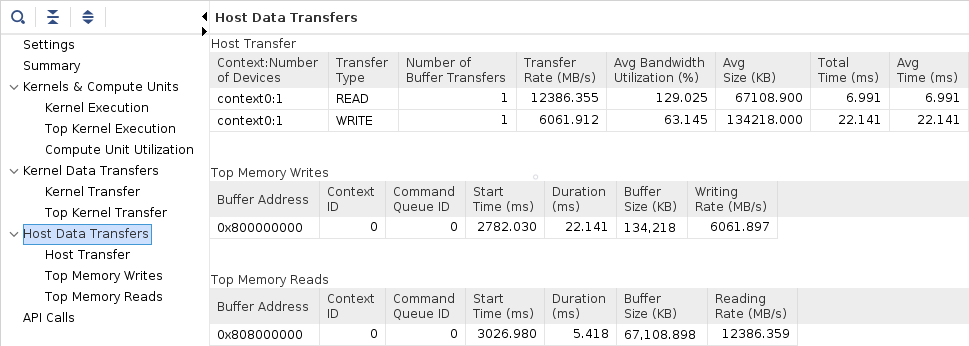
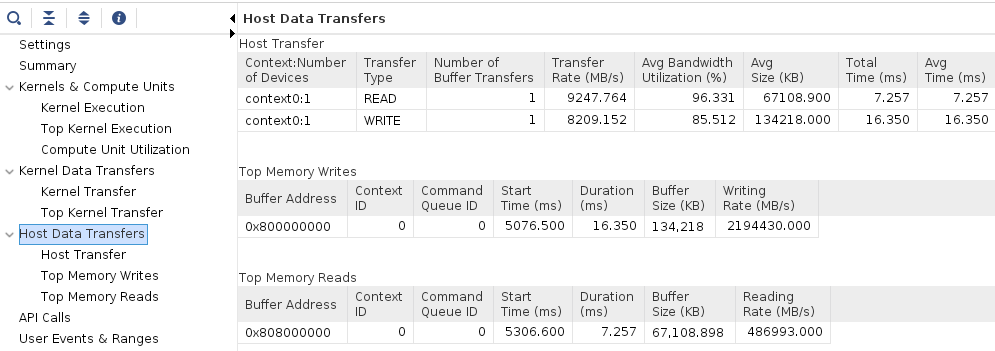
updated images, updated hardware section

diff --git a/docs/Vitis_intro-2.md b/docs/Vitis_intro-2.md
@@ -15,7 +15,7 @@ This lab is a continuation of previous *Introduction to Vitis* lab. You ended th
 
     ![](images/Vitis_intro/sw_emu_run_profile.png)
 
-1. Vitis Analyzer shows **Summary**, **Run Guidance** and **Profile Summary** tabs on the left-hand side. Notice that the Timeline Trace is not available as by default it is turned-off for the software emulation. Click **Profile Summary**
+1. Vitis Analyzer shows **Summary**, **Run Guidance** and **Profile Summary** tabs on the left-hand side. Notice that the **Timeline Trace** is not available as by default it is turned-off for the software emulation. Click **Profile Summary**
 
 1. Click **Kernels & Compute Units** on the right to see kernel and compute units execution times
 
@@ -65,7 +65,7 @@ This lab is a continuation of previous *Introduction to Vitis* lab. You ended th
 
     ![](images/Vitis_intro/hw_emu_krnl_profile_settings.png)
 
-1. Build the project. This may take about 10 minutes
+1. Build the project by selecting **vadd_system"" in `Assistant` view and clicking the build button. This may take about 10 minutes
 
 1. Run Hardware Emulation in GUI mode
 
@@ -100,7 +100,7 @@ This lab is a continuation of previous *Introduction to Vitis* lab. You ended th
 
     In the *Assistant* view, double-click `vadd_system > vadd > Emulation-HW > SystemDebugger_vadd_system_vadd > Run Summary (xclbin)` to open Vitis Analyzer
 
-    Vitis Analyzer shows **Summary**, **System Diagram**, **Platform Diagram**, **Run Guidance**, **Profile Summary**, and **Timeline Trace** tabs on the left-hand side. Click **Timeline Trace**. Zoom in between the 20 and 40 second area and observe the events that occurred. Note that data is processed in smaller chunks in the kernel and in a sequential manner. Only activities occurring in the FPGA is shown. No host activities are displayed.
+    Vitis Analyzer shows **Summary**, **System Diagram**, **Platform Diagram**, **Run Guidance**, **Profile Summary**, and **Timeline Trace** tabs on the left-hand side. Click **Timeline Trace**. Zoom in between the 20 and 40 second area and observe the events that occurred. Note that data is processed in smaller chunks in the kernel and in a sequential manner. Only activities occurring in the FPGA is shown. No host activities are displayed. 
 
     ![](images/Vitis_intro/hw_emu_application_timeline.png)
 
@@ -142,9 +142,7 @@ This lab is a continuation of previous *Introduction to Vitis* lab. You ended th
 
     ![](images/Vitis_intro/hw_emu_application_timeline_trace.png)
 
-## TO BE UPDATED ##
-
-### Build System hardware with profiling and timing analysis options
+### Build and run System hardware with profiling and timing analysis options if continuing with the lab OTHERWISE skip to [Prebuilt](#testing-with-prebuilt-hardware)
 
 1. Set `Active build configuration:` to `Hardware` on the upper right corner of *Application Project Settings* view
 
@@ -152,60 +150,53 @@ This lab is a continuation of previous *Introduction to Vitis* lab. You ended th
 
     In order to collect the profiling data and run Timing Analyzer on the application run in hardware, we need to setup some options.
 
-1. Right-click on Hardware in *Assistant* view and then click on *Settings*
+1. Select `vadd_system > vadd_system_hw_link > Hardware > binary_container_1` in *Assistant* view and then click on *Settings*. Click on the *Data Transfer* drop-down button in *binary\_container\_1* row and select **Counters+Trace** option. This should also enable *Execute Profiling* option. If not, then click on the corresponding check box.
 
-    ![](images/Vitis_intro/hw_settings_invoke.png)
+1. In the *V++ command line options:* field, enter `--profile.data all` to enable kernel profiling
 
-1. Expand Hardware in the left panel to see *binary_container_1* and *krnl_vadd* entries. Select *krnl_vadd* on the left-hand side, click on the *Data Transfer* drop-down button in krnl_vadd row and select *Counters+Trace* option. Notice the same monitoring options will be applied to all items in the hierarchy under the top level selection. Similarly, click on *Execute Profiling* check-box in krnl_vadd row.
+1. Select *Trace Memory* to be FIFO type and size of 64K. This is the memory where traces will be stored. You also have the option to store this information in DDR (max limit 4 GB) and PLRAM
 
     At this point the settings should look like shown below
 
     ![](images/Vitis_intro/hw_krnl_profile_settings.png)
 
-1. Click on *binary_container* on the left-hand side and select *Trace Memory* to be FIFO type and size of 64K. This is the memory where traces will be stored. You also have the option to store this information in DDR (max limit 2 GB) and PLRAM
-
 1. Click **Apply and Close**
 
-    ![](images/Vitis_intro/hw_binary_container_settings.png)
+1. Build the project by selecting **vadd\_system** in `Assistant` view and clicking the build button. This will take about 2 hours. Skip to [Prebuilt](#testing-with-prebuilt-hardware) in the tutorial environment
 
     Normally, you would build the hardware, but since it can take approximately two hours you should **NOT BUILD** it now. Instead you can use the precompiled solution. If you wish to rebuild the hardware later, see the [Appendix](#appendix-build-full-hardware) below for instructions on how to do this.
 
+1. A `binary_container_1.xclbin` and `vadd` application will be generated in the `vadd/Hardware` directory
 
-### Run the Design in target hardware and analyze output
+1. Register the generated xclbin file to generate binary\_container\_1.awsxclbin by running the shell script. Follow instructions available [here](Creating_AFI_AWSEducate.md)
 
-Since the Hardware build and AFI availability for AWS takes a considerable amount of time, a precompiled and preregistered AWS version is provided for you. Use the precompiled solution directory to verify the functionality
+1. Copy the `binary_container_1.awsxclbin` file into `~/workspace/vadd/Hardware` folder
 
-1. Copy the `binary_container_1.xclbin` and `vadd` files into `~/workspace/vadd/Hardware` folder. Also, make sure `vadd` has executable permissions. Use the following commands:
+Setup the run configuration so you can run the application and then analyze results from GUI
 
-    ```sh
-    cp ~/xup_compute_acceleration/solutions/vitis_intro_lab/* ~/workspace/vadd/Hardware/
-    chmod +x ~/workspace/vadd/Hardware/vadd
-    ```
+1. Right-click on `vadd_system` in *Assistant* view, select `Run > Run Configurations...`
 
-1. Setup the run configuration so you can run the application and then analyze results from GUI
-
-1. Right-click on Hardware in *Assistant* view, select `Run > Run Configurations...`
-
-    Change Generate timeline trace report option from *Default* to *Yes* using the drop-down button in the Main tab.
-
-    ![](images/Vitis_intro/hw_trace_settings.png)
-
-1. Click on *Arguments* tab, uncheck *Automatically add binary container(s) to arguments*, add the argument ../binary_container_1.awsxclbin
+1. Click on the **Edit...** button of the *Program Arguments*, uncheck *Automatically add binary container(s) to arguments*, then enter **../binary\_container\_1.awsxclbin** after clicking in the *Program Arguments* field. Finally, click **OK**
 
     ![](images/Vitis_intro/hw_arguments_settings.png)
+
+1. click on the `Edit...` button of the *Xilinx Runtime Profiling* section, select the **OpenCL trace** option and click **OK**
 
 1. Execute the application by clicking **Apply** and then **Run**. The FPGA bitstream will be downloaded and the host application will be executed showing output similar to:
 
     ```
-    Loading: '../binary_container_1.awsxclbin'
+    Loading: '/home/ec2-user/workspace/vadd_system/Hardware/binary_container_1.awsxclbin'
+    Trying to program device[0]: xilinx_aws-vu9p-f1_shell-v04261818_201920_2
+    Device[0]: program successful!
+    Running Vector add with 16777216 elements
+    Launching Hardware Kernel...
+    Getting Hardware Results...
     TEST PASSED
     ```
 
-### Analyze hardware application timeline and profile summary
+1. In the *Assistant* view, double click `vadd_system > vadd > Hardware > SystemDebugger_vadd_system_vadd > Run Summary (xclbin)` to open Vitis Analyzer
 
-1. In the *Assistant* view, double click `Hardware > vadd-Default > Run Summary (xclbin)` to open Vitis Analyzer
-
-    Vitis Analyzer shows **Summary**, **Run Guidance**, **Profile Summary** and **Application Timeline** panels on the left-hand side. Click **Application Timeline**. Zoom in at the end of the timeline and observe the activities in various parts of the system. Note that the kernel processes data in one shot
+    Click **Timeline Trace**. Zoom in at the end of the timeline and observe the activities in various parts of the system. Note that the kernel processes data in one shot
 
     ![](images/Vitis_intro/hw_application_timeline.png)
 
@@ -215,7 +206,7 @@ Since the Hardware build and AFI availability for AWS takes a considerable amoun
 
     ![](images/Vitis_intro/hw_profile_kernel_compute_units.png)
 
-    - Kernel Data Transfers
+    - Kernel Data Transfers 
 
     ![](images/Vitis_intro/hw_profile_kernel_data_transfer.png)
 
@@ -228,7 +219,6 @@ Since the Hardware build and AFI availability for AWS takes a considerable amoun
     ![](images/Vitis_intro/hw_profile_API_calls.png)
 
 
-
 1. When finished, close the analyzer by clicking `File > Exit` and clicking **OK**
 
 1. Review `xrt.ini` file in `Hardware` folder within *Explorer* view
@@ -237,14 +227,61 @@ Since the Hardware build and AFI availability for AWS takes a considerable amoun
 
     ```
     [Debug]
-    profile=true
-    data_transfer_trace=fine
+    opencl_summary=true
+    power_profile=false
+    opencl_trace=true
+    lop_trace=false
+    xrt_trace=false
+    data_transfer_trace=coarse
     stall_trace=off
-    trace_buffer_size=1M
-    continuous_trace_interval=10
     app_debug=true
-    timeline_trace=true
     ```
+
+    Since you have built the complete hardware and software, ran the application, and analyzed output, skip to the Conclusion section.
+
+### Testing with Prebuilt Hardware
+
+Since the Hardware build and AFI availability for AWS takes a considerable amount of time, a precompiled and preregistered AWS version is provided for you. Use the precompiled solution directory to verify the functionality
+
+1. Create a solution testing directory called `sol-test` in the home directory, and copy the files from the provided solution director using the following commands:
+
+    ```sh
+    mkdir ~/sol-test
+    mkdir ~/sol-test/intro_vitis_lab
+    cp ~/xup_compute_acceleration/solutions/vitis_intro_lab/* ~/sol-test/intro_vitis_lab/.
+    chmod +x ~/sol-test/intro_vitis_lab/vadd
+    ```
+
+1. Run the application and analyze the output using the following commands:
+
+    ```sh
+    cd ~/sol-test/intro_vitis_lab
+    ./vadd binary_container_1.awsxclbin
+    vitis_analyzer xclbin.run_summary
+    ```
+
+    Click **Timeline Trace**. Zoom in at the end of the timeline and observe the activities in various parts of the system. Note that the kernel processes data in one shot
+
+    ![](images/Vitis_intro/cmdline_hw_application_timeline.png)
+
+1. Click on the *Profile Summary* entry in the left panel, and observe multi-tab (four tabs) output
+
+    - Kernels & Compute Units
+
+    ![](images/Vitis_intro/cmdline_hw_profile_kernel_compute_units.png)
+
+    - Kernel Data Transfers 
+
+    ![](images/Vitis_intro/cmdline_hw_profile_kernel_data_transfer.png)
+
+    - Host Data Transfer
+
+    ![](images/Vitis_intro/cmdline_hw_profile_data_transfer.png)
+
+    - OpenCL APIs
+
+    ![](images/Vitis_intro/cmdline_hw_profile_API_calls.png)
+
 
 ## Conclusion
 

diff --git a/docs/README.md b/docs/README.md
@@ -10,7 +10,7 @@ Welcome to the XUP Vitis-based Compute Acceleration tutorial. These labs will pr
 
 The tutorial instructions target the following hardware and software:
 
-* Vitis 2020.1
+* Vitis 2021.1
 * AWS EC2 F1 f1.2xlarge (cloud)
 
 This tutorial shows you how to use Vitis with AWS EC2 F1. Sources and precompiled solutions are provided for AWS EC2 F1 x2.large. You may be able to use the Vitis tutorial instructions with other cloud providers, and other hardware.

diff --git a/docs/Vitis_intro-1.md b/docs/Vitis_intro-1.md
@@ -47,7 +47,7 @@ After completing Introduction to Vitis Part 1 and 2, you will learn to:
     source $AWS_FPGA_REPO_DIR/vitis_runtime_setup.sh
     ```
 
-1. Invoke GUI by executing the following command:
+1. Invoke GUI by executing the following command from a terminal window:
 
     ```sh
     vitis &
